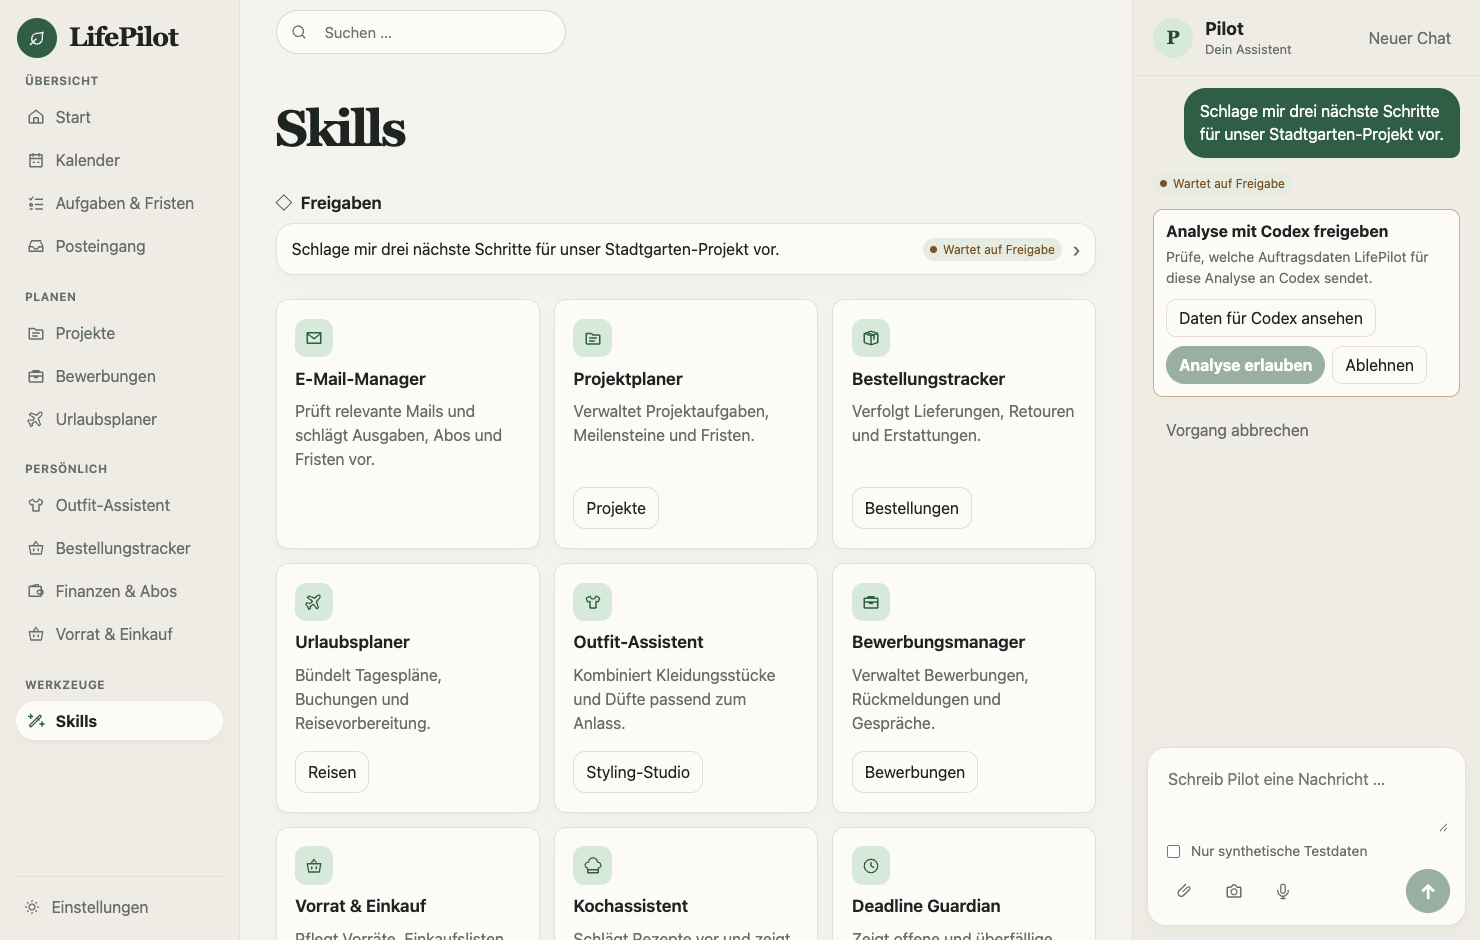
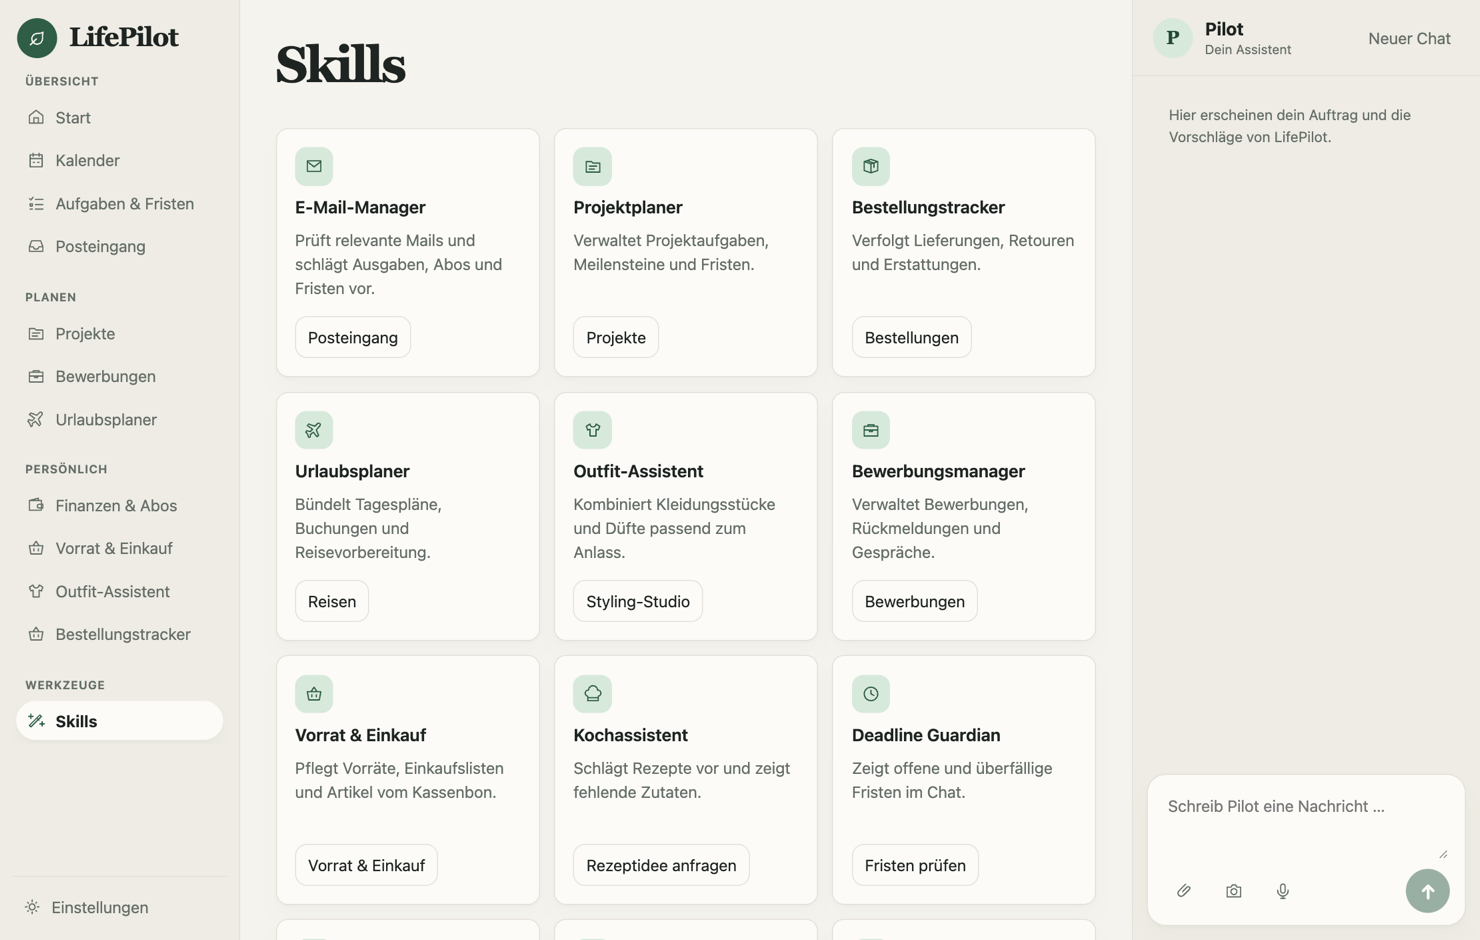
v1.0.75: Screenshot-Galerie mit fiktiven Daten neu aufgenommen

diff --git a/hub/runtime/settings.ts b/hub/runtime/settings.ts
@@ -15,7 +15,7 @@ export const database = join(data, 'memory.sqlite3')
 export const secretPath = join(data, 'adapter-token')
 export const probeSecretPath = join(data, 'probe-token')
 export const fixtures = JSON.parse(readFileSync(new URL('../templates/acceptance.json', import.meta.url), 'utf8')) as { ui: string, cli: string, memory: string }
-export const version = '1.0.74'
+export const version = '1.0.75'
 export const chatMode: ChatMode = acceptance ? 'synthetic' :
   hasPrivateChatRelease(root, join(data, 'private-chat-release.json'), version) ? 'private' : 'disabled'
 export const cloudModel = chatMode === 'private'

diff --git a/README.md b/README.md
@@ -1,4 +1,4 @@
-# LifePilot 1.0.74
+# LifePilot 1.0.75
 
 LifePilot ist eine lokale macOS-App für persönliche Organisation. Startseite, Kalender, Aufgaben und Projekte greifen auf denselben SQLite-Datenbestand zu. Pilot hilft bei Rückfragen und bereitet Änderungsvorschläge vor.
 
@@ -13,7 +13,7 @@ Die Aufnahmen zeigen fiktive Daten in einem getrennten Testprofil. Die Produktbi
 <table>
 <tr>
 <td width="50%" valign="top"><strong>Startseite</strong><br>Wochenbriefing mit Aufgaben, Fristen, nächsten Terminen und wichtigen Mails.<br><a href="docs/screenshots/01-start.png"><img src="docs/screenshots/01-start.png" alt="Wochenbriefing mit anstehenden Aufgaben und Terminen"></a></td>
-<td width="50%" valign="top"><strong>Pilot-Chat</strong><br>Pilot nimmt Aufträge im Chat entgegen. Du kannst einen Entwurf prüfen und eine vorgeschlagene Änderung separat bestätigen.<br><a href="docs/screenshots/15-pilot.png"><img src="docs/screenshots/15-pilot.png" width="240" alt="Pilot-Chat mit einem fiktiven Projektauftrag und seinem Freigabestatus"></a></td>
+<td width="50%" valign="top"><strong>Pilot-Chat</strong><br>Pilot nimmt Aufträge im Chat entgegen. Aus einer einzigen Nachricht entstehen ein Kalendertermin und eine Aufgabe mit Erinnerung; du bestätigst jeden Vorschlag einzeln.<br><a href="docs/screenshots/15-pilot.png"><img src="docs/screenshots/15-pilot.png" alt="Pilot-Chat mit einem Brunchtermin und einer Erinnerung, daneben der Kalender mit den übernommenen Einträgen"></a></td>
 </tr>
 <tr>
 <td width="50%" valign="top"><strong>Kalender</strong><br>Termine und Serien in der Wochen- oder Monatsansicht planen und freie Zeitfenster finden.<br><a href="docs/screenshots/02-kalender.png"><img src="docs/screenshots/02-kalender.png" alt="Monatskalender und Suche nach freien Zeitfenstern"></a></td>
@@ -21,7 +21,11 @@ Die Aufnahmen zeigen fiktive Daten in einem getrennten Testprofil. Die Produktbi
 </tr>
 <tr>
 <td width="50%" valign="top"><strong>Projekte</strong><br>Phasen, Checkpoints, verknüpfte Fristen und Fortschritt auf einer Projektkarte sehen.<br><a href="docs/screenshots/04-projekte.png"><img src="docs/screenshots/04-projekte.png" alt="Projektkarte mit Phasen und Fortschrittsanzeige"></a></td>
-<td width="50%" valign="top"><strong>Urlaubsplaner</strong><br>Reisezeitraum und Ziel auswählen, Interessen und Ausschlüsse festlegen und eine Vorschau vorbereiten.<br><a href="docs/screenshots/08-reise.png"><img src="docs/screenshots/08-reise.png" alt="Reiseformular mit Kalenderfeldern, Interessen und Ausschlüssen"></a></td>
+<td width="50%" valign="top"><strong>Urlaubsplaner</strong><br>Reiseplan mit Anreise, Unterkunft, Währung und Tagesplan, Tipps und Buchungen für jeden Reisetag.<br><a href="docs/screenshots/08-reise.png"><img src="docs/screenshots/08-reise.png" alt="Reiseplan für Lissabon mit Anreise, Unterkunft und Tagesplan"></a></td>
+</tr>
+<tr>
+<td width="50%" valign="top"><strong>Reisevorbereitung</strong><br>Checkliste und Packliste einer Reise lassen sich abhaken und nach Bedarf anpassen.<br><a href="docs/screenshots/08b-reise-vorbereitung.png"><img src="docs/screenshots/08b-reise-vorbereitung.png" alt="Checkliste und Packliste einer Reise nach Lissabon"></a></td>
+<td width="50%"></td>
 </tr>
 </table>
 
@@ -29,12 +33,16 @@ Die Aufnahmen zeigen fiktive Daten in einem getrennten Testprofil. Die Produktbi
 
 <table>
 <tr>
-<td width="50%" valign="top"><strong>Posteingang</strong><br>Wichtige Nachrichten priorisieren und daraus Vorschläge für passende Folgeaktionen ableiten.<br><a href="docs/screenshots/05-posteingang.png"><img src="docs/screenshots/05-posteingang.png" alt="Posteingang mit ausgewählten fiktiven Nachrichten"></a></td>
-<td width="50%" valign="top"><strong>Bestellungstracker</strong><br>Lieferstatus verfolgen und je Artikel entscheiden, was behalten oder retourniert wird.<br><a href="docs/screenshots/06-bestellungen.png"><img src="docs/screenshots/06-bestellungen.png" alt="Musterbestellung mit Lieferstatus und Artikelentscheidungen"></a></td>
+<td width="50%" valign="top"><strong>Posteingang</strong><br>Wichtige Nachrichten priorisieren und begründen, warum sie wichtig sind.<br><a href="docs/screenshots/05-posteingang.png"><img src="docs/screenshots/05-posteingang.png" alt="Posteingang mit ausgewählten fiktiven Nachrichten"></a></td>
+<td width="50%" valign="top"><strong>Mailvorschläge</strong><br>Aus Mails abgeleitete Fristen und Aufgaben lassen sich einzeln oder gesammelt bestätigen.<br><a href="docs/screenshots/05b-mailvorschlaege.png"><img src="docs/screenshots/05b-mailvorschlaege.png" alt="Mailvorschlag für eine Aufgabe mit Bestätigen und Ablehnen"></a></td>
 </tr>
 <tr>
-<td width="50%" valign="top"><strong>Finanzen &amp; Abos</strong><br>Einnahmen, Ausgaben und Abo-Vorschläge im Monatsverlauf prüfen.<br><a href="docs/screenshots/07-finanzen.png"><img src="docs/screenshots/07-finanzen.png" alt="Finanzübersicht mit fiktiven Einnahmen und Ausgaben"></a></td>
-<td width="50%" valign="top"><strong>Bewerbungen</strong><br>Bewerbungen nach Status organisieren und nächste Schritte und Gespräche planen.<br><a href="docs/screenshots/11-bewerbungen.png"><img src="docs/screenshots/11-bewerbungen.png" alt="Bewerbungsboard mit fiktivem Arbeitgeber"></a></td>
+<td width="50%" valign="top"><strong>Bestellungstracker</strong><br>Lieferstatus verfolgen und je Artikel entscheiden, was behalten oder retourniert wird.<br><a href="docs/screenshots/06-bestellungen.png"><img src="docs/screenshots/06-bestellungen.png" alt="Musterbestellung mit Lieferstatus und Artikelentscheidungen"></a></td>
+<td width="50%" valign="top"><strong>Finanzen &amp; Abos</strong><br>Einnahmen, Ausgaben, Fixkosten und Abos im Monatsverlauf prüfen.<br><a href="docs/screenshots/07-finanzen.png"><img src="docs/screenshots/07-finanzen.png" alt="Finanzübersicht mit fiktiven Einnahmen und Ausgaben"></a></td>
+</tr>
+<tr>
+<td width="50%" valign="top"><strong>Abo-Prüfung</strong><br>Pilot sucht im Web nach günstigeren Tarifen und sagt je Abo, ob es sich lohnt zu wechseln. Gekündigt oder gebucht wird nichts.<br><a href="docs/screenshots/07b-abo-pruefung.png"><img src="docs/screenshots/07b-abo-pruefung.png" alt="Abo-Prüfung mit Empfehlung Behalten oder Wechseln und einer Tarifalternative"></a></td>
+<td width="50%" valign="top"><strong>Bewerbungen</strong><br>Bewerbungen nach Status organisieren, Gespräche planen und Vorschläge aus Mails mit „Passt“ bestätigen.<br><a href="docs/screenshots/11-bewerbungen.png"><img src="docs/screenshots/11-bewerbungen.png" alt="Bewerbungsboard mit Bewerbungsvorschlag aus einer Mail"></a></td>
 </tr>
 </table>
 
@@ -42,23 +50,23 @@ Die Aufnahmen zeigen fiktive Daten in einem getrennten Testprofil. Die Produktbi
 
 <table>
 <tr>
-<td width="50%" valign="top"><strong>Kleiderschrank</strong><br>Kleidung mit Produktbildern, Kategorien, Farben und Passformen verwalten.<br><a href="docs/screenshots/09-kleiderschrank.png"><img src="docs/screenshots/09-kleiderschrank.png" alt="Vier fiktive Kleidungsstücke mit Produktbildern"></a></td>
+<td width="50%" valign="top"><strong>Kleiderschrank</strong><br>Kleidung mit Produktbildern, Kategorien, Farben und Passformen verwalten.<br><a href="docs/screenshots/09-kleiderschrank.png"><img src="docs/screenshots/09-kleiderschrank.png" alt="Fiktive Kleidungsstücke mit Produktbildern"></a></td>
 <td width="50%" valign="top"><strong>Parfüm &amp; Düfte</strong><br>Düfte mit Flakonbild, Duftnoten, Größe und passenden Anlässen sammeln.<br><a href="docs/screenshots/14-duefte.png"><img src="docs/screenshots/14-duefte.png" alt="Vier fiktive Düfte mit Flakonbildern und Duftnoten"></a></td>
 </tr>
 <tr>
-<td width="50%" valign="top"><strong>Styling-Studio</strong><br>Ein Outfit nach Anlass, Tageszeit und vorhandenen Kleidungsstücken zusammenstellen.<br><a href="docs/screenshots/16-styling.png"><img src="docs/screenshots/16-styling.png" alt="Styling-Studio mit Anlass, Tageszeit und Outfit-Funktion"></a></td>
+<td width="50%" valign="top"><strong>Styling-Studio</strong><br>Ein Outfit nach Anlass, Tageszeit, Wetter und vorhandenen Kleidungsstücken zusammenstellen, passend mit Duft.<br><a href="docs/screenshots/16-styling.png"><img src="docs/screenshots/16-styling.png" alt="Styling-Studio mit Outfitvorschlag für ein Vorstellungsgespräch"></a></td>
 <td width="50%" valign="top"><strong>Einkaufsliste</strong><br>Lebensmittel auf einer nach Warengruppen gegliederten Liste abhaken.<br><a href="docs/screenshots/10-einkauf.png"><img src="docs/screenshots/10-einkauf.png" alt="Einkaufsliste mit Kategoriegruppen"></a></td>
 </tr>
 <tr>
-<td width="50%" valign="top"><strong>Meine Looks</strong><br>Kombinationen und eigene Outfit-Fotos als Looks zusammenhalten.<br><a href="docs/screenshots/17-looks.png"><img src="docs/screenshots/17-looks.png" alt="Lookbook mit gespeicherter Outfit-Kombination"></a></td>
+<td width="50%" valign="top"><strong>Meine Looks</strong><br>Kombinationen und eigene Outfit-Fotos als Looks zusammenhalten.<br><a href="docs/screenshots/17-looks.png"><img src="docs/screenshots/17-looks.png" alt="Lookbook mit gespeicherten Outfit-Kombinationen"></a></td>
 <td width="50%" valign="top"><strong>Urlaubsgarderobe</strong><br>Kleidungsstücke aus dem Schrank für eine konkrete Reise auswählen und als Packauswahl speichern.<br><a href="docs/screenshots/20-urlaubsgarderobe.png"><img src="docs/screenshots/20-urlaubsgarderobe.png" alt="Urlaubsgarderobe mit bebilderter Packauswahl für eine Musterreise"></a></td>
 </tr>
 <tr>
-<td width="50%" valign="top"><strong>Verkaufen</strong><br>Für ein Kleidungsstück einen Verkaufsentwurf mit Zustand, Preisrahmen und Inseratstext erstellen.<br><a href="docs/screenshots/21-verkaufen.png"><img src="docs/screenshots/21-verkaufen.png" alt="Verkaufsbereich mit einem fiktiven Paar Chelsea-Boots"></a></td>
+<td width="50%" valign="top"><strong>Verkaufen</strong><br>Für ein Kleidungsstück einen Verkaufsentwurf mit Zustand, Preisrahmen und Inseratstext erstellen.<br><a href="docs/screenshots/21-verkaufen.png"><img src="docs/screenshots/21-verkaufen.png" alt="Verkaufsbereich mit einer fiktiven Baseballcap"></a></td>
 <td width="50%" valign="top"><strong>Mein Vorrat</strong><br>Vorräte nach Kategorien durchsuchen und den Bestand pflegen.<br><a href="docs/screenshots/18-vorrat.png"><img src="docs/screenshots/18-vorrat.png" alt="Kategorisierte Vorratsverwaltung"></a></td>
 </tr>
 <tr>
-<td width="50%" valign="top"><strong>Meine Rezepte</strong><br>Aus vorhandenen Zutaten kochen oder bei Pilot nach Rezeptideen fragen.<br><a href="docs/screenshots/19-rezepte.png"><img src="docs/screenshots/19-rezepte.png" alt="Rezeptbereich mit Vorrats- und Pilot-Aktionen"></a></td>
+<td width="50%" valign="top"><strong>Meine Rezepte</strong><br>Aus vorhandenen Zutaten kochen oder bei Pilot nach Rezeptideen fragen; fehlende Zutaten wandern auf die Einkaufsliste.<br><a href="docs/screenshots/19-rezepte.png"><img src="docs/screenshots/19-rezepte.png" alt="Rezeptideen aus dem Vorrat mit fehlenden Zutaten"></a></td>
 <td width="50%"></td>
 </tr>
 </table>
@@ -185,7 +193,7 @@ LifePilot begann mit einem lokalen Kern und wurde anhand konkreter Abläufe geme
 | **1.0.36–1.0.42 · 25./26. November 2026** | Agent mit Verzeichnis aller Bereiche, Zerlegung langer und diktierter Nachrichten, Entscheidungstabelle der Skills, Bestellungen und Bewerbungen im Chat, umschaltbarer Modellanbieter (Codex oder Claude Code), Testsatz mit 48 Beispielsätzen. |
 | **1.0.43–1.0.52 · 26. November 2026** | Sicherheitsprüfung des Gesamtprojekts, Kalender ohne Doppeleinträge, Rezeptauswahl und Zutatenabgleich, Bestellmails mit Warenkorb-Blöcken, Outfits passend zum Anlass, Terminvorschläge aus Mails. |
 | **1.0.53–1.0.57 · 26. November 2026** | Tiefere Mailprüfung per Modell, Löschen von Mails mit Bestätigung, Wetterfragen am Standort, wichtige Mails der letzten sieben Tage, schonender Mailabruf. |
-| **1.0.58–1.0.74 · 26. November 2026** | Weitergeleitete Kurs-Mails als Terminvorschlag, Sicherheitsaudit mit lokalem Prüfbefehl und Bereinigung privater Daten. |
+| **1.0.58–1.0.75 · 26. November 2026** | Weitergeleitete Kurs-Mails als Terminvorschlag, Sicherheitsaudit mit lokalem Prüfbefehl und Bereinigung privater Daten. |
 
 [Alle Einzelschritte im Changelog](CHANGELOG.md) · [Entwicklungsverlauf](docs/ENTWICKLUNG.md)
 

diff --git a/docs/SCREENSHOTS.md b/docs/SCREENSHOTS.md
@@ -1,128 +1,154 @@
 # LifePilot im Testprofil
 
-Die Screenshots stammen aus getrennten Chromium-Sitzungen mit fiktiven Daten. Die ursprünglichen Aufnahmen entstanden mit der Runtime 0.25.16. Pilot, Kleiderschrank, Duftsammlung und die ergänzenden Ansichten wurden mit LifePilot 1.0 aufgenommen. Die Kleidungs- und Flakonbilder sind generierte Beispielmotive. In den neuen Sitzungen war kein Google-Konto verbunden. Die Agentenaufnahme zeigt den lokalen Testmodus.
+Alle Aufnahmen zeigen die Version 1.0.75 mit vollständig fiktiven Daten (Person, Termine, Mails, Bestellungen, Finanzen, Bewerbungen). Sie entstanden in einem getrennten Testprofil. Pilot-Chat, Styling-Studio, Rezeptideen, Reiseplan und Abo-Prüfung wurden mit dem echten Modell erzeugt; die Mails und Bestellungen sind Musterdaten, kein Google-Konto war verbunden. Die Kleidungs- und Flakonbilder sind generierte Beispielmotive. Wetterdaten stammen von Open-Meteo, Tarifangaben der Abo-Prüfung aus einer Websuche und können abweichen.
 
-## Startseite
+## Planung und Pilot
+
+### Startseite
 
 Wochenbriefing mit Aufgaben, Fristen, nächsten Terminen und wichtigen Mails.
 
 ![Wochenbriefing mit anstehenden Aufgaben und Terminen](screenshots/01-start.png)
 
-## Pilot-Chat
+### Pilot-Chat
 
-Pilot nimmt Aufträge im Chat entgegen. Du kannst einen Entwurf prüfen und eine vorgeschlagene Änderung separat bestätigen.
+Pilot nimmt Aufträge im Chat entgegen. Aus einer einzigen Nachricht entstehen ein Kalendertermin und eine Aufgabe mit Erinnerung; du bestätigst jeden Vorschlag einzeln.
 
-![Pilot-Chat mit einem fiktiven Projektauftrag und seinem Freigabestatus](screenshots/15-pilot.png)
+![Pilot-Chat mit einem Brunchtermin und einer Erinnerung, daneben der Kalender mit den übernommenen Einträgen](screenshots/15-pilot.png)
 
-## Kalender
+### Kalender
 
 Termine und Serien in der Wochen- oder Monatsansicht planen und freie Zeitfenster finden.
 
 ![Monatskalender und Suche nach freien Zeitfenstern](screenshots/02-kalender.png)
 
-## Aufgaben & Fristen
+### Aufgaben & Fristen
 
 Aufgaben nach Uni, Privat und Arbeit organisieren und bei Bedarf einem Projekt zuordnen.
 
 ![Aufgabenboard in drei Spalten mit Prioritäten und Fristen](screenshots/03-aufgaben.png)
 
-## Projekte
+### Projekte
 
 Phasen, Checkpoints, verknüpfte Fristen und Fortschritt auf einer Projektkarte sehen.
 
 ![Projektkarte mit Phasen und Fortschrittsanzeige](screenshots/04-projekte.png)
 
-## Urlaubsplaner
+### Urlaubsplaner
 
-Reisezeitraum und Ziel auswählen, Interessen und Ausschlüsse festlegen und eine Vorschau vorbereiten.
+Reiseplan mit Anreise, Unterkunft, Währung und Tagesplan, Tipps und Buchungen für jeden Reisetag.
 
-![Reiseformular mit Kalenderfeldern, Interessen und Ausschlüssen](screenshots/08-reise.png)
+![Reiseplan für Lissabon mit Anreise, Unterkunft und Tagesplan](screenshots/08-reise.png)
 
-## Posteingang
+### Reisevorbereitung
 
-Wichtige Nachrichten priorisieren und daraus Vorschläge für passende Folgeaktionen ableiten.
+Checkliste und Packliste einer Reise lassen sich abhaken und nach Bedarf anpassen.
+
+![Checkliste und Packliste einer Reise nach Lissabon](screenshots/08b-reise-vorbereitung.png)
+
+## Posteingang, Bestellungen und Verwaltung
+
+### Posteingang
+
+Wichtige Nachrichten priorisieren und begründen, warum sie wichtig sind.
 
 ![Posteingang mit ausgewählten fiktiven Nachrichten](screenshots/05-posteingang.png)
 
-## Bestellungstracker
+### Mailvorschläge
+
+Aus Mails abgeleitete Fristen und Aufgaben lassen sich einzeln oder gesammelt bestätigen.
+
+![Mailvorschlag für eine Aufgabe mit Bestätigen und Ablehnen](screenshots/05b-mailvorschlaege.png)
+
+### Bestellungstracker
 
 Lieferstatus verfolgen und je Artikel entscheiden, was behalten oder retourniert wird.
 
 ![Musterbestellung mit Lieferstatus und Artikelentscheidungen](screenshots/06-bestellungen.png)
 
-## Finanzen & Abos
+### Finanzen & Abos
 
-Einnahmen, Ausgaben und Abo-Vorschläge im Monatsverlauf prüfen.
+Einnahmen, Ausgaben, Fixkosten und Abos im Monatsverlauf prüfen.
 
 ![Finanzübersicht mit fiktiven Einnahmen und Ausgaben](screenshots/07-finanzen.png)
 
-## Bewerbungen
+### Abo-Prüfung
 
-Bewerbungen nach Status organisieren und nächste Schritte und Gespräche planen.
+Pilot sucht im Web nach günstigeren Tarifen und sagt je Abo, ob es sich lohnt zu wechseln. Gekündigt oder gebucht wird nichts.
 
-![Bewerbungsboard mit fiktivem Arbeitgeber](screenshots/11-bewerbungen.png)
+![Abo-Prüfung mit Empfehlung Behalten oder Wechseln und einer Tarifalternative](screenshots/07b-abo-pruefung.png)
 
-## Kleiderschrank
+### Bewerbungen
+
+Bewerbungen nach Status organisieren, Gespräche planen und Vorschläge aus Mails mit „Passt“ bestätigen.
+
+![Bewerbungsboard mit Bewerbungsvorschlag aus einer Mail](screenshots/11-bewerbungen.png)
+
+## Outfit, Düfte und Haushalt
+
+### Kleiderschrank
 
 Kleidung mit Produktbildern, Kategorien, Farben und Passformen verwalten.
 
-![Vier fiktive Kleidungsstücke mit Produktbildern](screenshots/09-kleiderschrank.png)
+![Fiktive Kleidungsstücke mit Produktbildern](screenshots/09-kleiderschrank.png)
 
-## Parfüm & Düfte
+### Parfüm & Düfte
 
 Düfte mit Flakonbild, Duftnoten, Größe und passenden Anlässen sammeln.
 
 ![Vier fiktive Düfte mit Flakonbildern und Duftnoten](screenshots/14-duefte.png)
 
-## Styling-Studio
+### Styling-Studio
 
-Ein Outfit nach Anlass, Tageszeit und vorhandenen Kleidungsstücken zusammenstellen.
+Ein Outfit nach Anlass, Tageszeit, Wetter und vorhandenen Kleidungsstücken zusammenstellen, passend mit Duft.
 
-![Styling-Studio mit Anlass, Tageszeit und Outfit-Funktion](screenshots/16-styling.png)
+![Styling-Studio mit Outfitvorschlag für ein Vorstellungsgespräch](screenshots/16-styling.png)
 
-## Einkaufsliste
+### Einkaufsliste
 
 Lebensmittel auf einer nach Warengruppen gegliederten Liste abhaken.
 
 ![Einkaufsliste mit Kategoriegruppen](screenshots/10-einkauf.png)
 
-## Meine Looks
+### Meine Looks
 
 Kombinationen und eigene Outfit-Fotos als Looks zusammenhalten.
 
-![Lookbook mit gespeicherter Outfit-Kombination](screenshots/17-looks.png)
+![Lookbook mit gespeicherten Outfit-Kombinationen](screenshots/17-looks.png)
 
-## Urlaubsgarderobe
+### Urlaubsgarderobe
 
 Kleidungsstücke aus dem Schrank für eine konkrete Reise auswählen und als Packauswahl speichern.
 
 ![Urlaubsgarderobe mit bebilderter Packauswahl für eine Musterreise](screenshots/20-urlaubsgarderobe.png)
 
-## Verkaufen
+### Verkaufen
 
 Für ein Kleidungsstück einen Verkaufsentwurf mit Zustand, Preisrahmen und Inseratstext erstellen.
 
-![Verkaufsbereich mit einem fiktiven Paar Chelsea-Boots](screenshots/21-verkaufen.png)
+![Verkaufsbereich mit einer fiktiven Baseballcap](screenshots/21-verkaufen.png)
 
-## Mein Vorrat
+### Mein Vorrat
 
 Vorräte nach Kategorien durchsuchen und den Bestand pflegen.
 
 ![Kategorisierte Vorratsverwaltung](screenshots/18-vorrat.png)
 
-## Meine Rezepte
+### Meine Rezepte
 
-Aus vorhandenen Zutaten kochen oder bei Pilot nach Rezeptideen fragen.
+Aus vorhandenen Zutaten kochen oder bei Pilot nach Rezeptideen fragen; fehlende Zutaten wandern auf die Einkaufsliste.
 
-![Rezeptbereich mit Vorrats- und Pilot-Aktionen](screenshots/19-rezepte.png)
+![Rezeptideen aus dem Vorrat mit fehlenden Zutaten](screenshots/19-rezepte.png)
 
-## Skills
+## Skills und Einstellungen
+
+### Skills
 
 Verfügbare Fähigkeiten und ihre Verknüpfungen mit den Modulen einsehen.
 
 ![Skill-Übersicht mit verknüpften Modulen](screenshots/12-skills.png)
 
-## Einstellungen & Profil
+### Einstellungen & Profil
 
 Profil für persönliche Angaben, Studium und Beruf sowie optionale Verbindungen verwalten.
 

diff --git a/docs/ENTWICKLUNG.md b/docs/ENTWICKLUNG.md
@@ -1,6 +1,6 @@
 # Entwicklungsverlauf von LifePilot
 
-Dieses Dokument beschreibt, wie LifePilot von der ersten Idee bis Version 1.0.74 gemeinsam mit KI-Assistenten entstanden ist. Es ordnet die Entwicklung in Meilensteine, nennt zu jedem Anlass, Vorgehen und Ergebnis und erklärt die Arbeitsweise. Die einzelnen Änderungen je Version stehen im [Changelog](../CHANGELOG.md), die kompakte Zeitleiste in der [Versionsübersicht der README](../README.md#versionsübersicht). Kleine Änderungen sind hier zu Meilensteinen zusammengefasst.
+Dieses Dokument beschreibt, wie LifePilot von der ersten Idee bis Version 1.0.75 gemeinsam mit KI-Assistenten entstanden ist. Es ordnet die Entwicklung in Meilensteine, nennt zu jedem Anlass, Vorgehen und Ergebnis und erklärt die Arbeitsweise. Die einzelnen Änderungen je Version stehen im [Changelog](../CHANGELOG.md), die kompakte Zeitleiste in der [Versionsübersicht der README](../README.md#versionsübersicht). Kleine Änderungen sind hier zu Meilensteinen zusammengefasst.
 
 Quellen sind zwei Arbeitsprotokolle: ein Chat mit ChatGPT und Codex (Version 0.1 bis 1.0.57) und eine Sitzung mit Claude Code (Version 1.0.11 bis 1.0.59). Die frühen Versionen 0.x sind im Protokoll nicht datiert und nach Reihenfolge und Versionsbereich eingeordnet.
 
@@ -247,7 +247,7 @@ Aufgrund des knappen Modellkontingents wurde die Anbindung zusätzlich auf einen
 - **Mehrere KIs mit klaren Rollen** ergänzen sich: Planung und Analyse in Antigravity und Gemini, Umsetzung in Codex und Claude Code, Prüfung durch Tests und statische Analyse.
 - **Dokumentation entsteht mit der Entwicklung.** Changelog, Skill-Dateien, README und dieses Dokument wurden laufend gepflegt, nicht erst am Ende.
 
-## 8. Kennzahlen (Stand 1.0.74)
+## 8. Kennzahlen (Stand 1.0.75)
 
 | Merkmal | Wert |
 |---|---|

diff --git a/CHANGELOG.md b/CHANGELOG.md
@@ -2,6 +2,10 @@
 
 Die Entwicklungsetappen stammen aus lokalen Versionsnotizen. Für frühe Stände dient die Versionsnummer als zeitliche Einordnung. Der öffentliche Git-Verlauf beginnt mit dem bereinigten Import.
 
+## v1.0.75 · 26. November 2026
+
+- Dokumentation: Die Screenshot-Galerie in README und docs/SCREENSHOTS.md wurde vollständig neu aufgenommen, mit durchgehend fiktiven Daten. Neu sind der Pilot-Chat mit einer Mehrfachanfrage, die Abo-Prüfung mit Tarifalternative, Mailvorschläge, Bewerbungsvorschlag, Reiseplan mit Checkliste und Packliste sowie ein Styling-Ergebnis. Keine Änderung am Programmcode.
+
 ## v1.0.74 · 26. November 2026
 
 - Bewerbungen: In Mails erkannte Bewerbungen erscheinen als aufklappbarer Bereich „Bewerbungen“ mit Zähler unter „Wartet auf dein OK“ auf der Startseite und als „Bewerbungsvorschläge aus Mails“ im Bereich Bewerbungen. Eindeutige Vorschläge lassen sich mit „Passt“ bestätigen, sonst mit „Prüfen“ einzeln anpassen oder mit „Ablehnen“ verwerfen.
